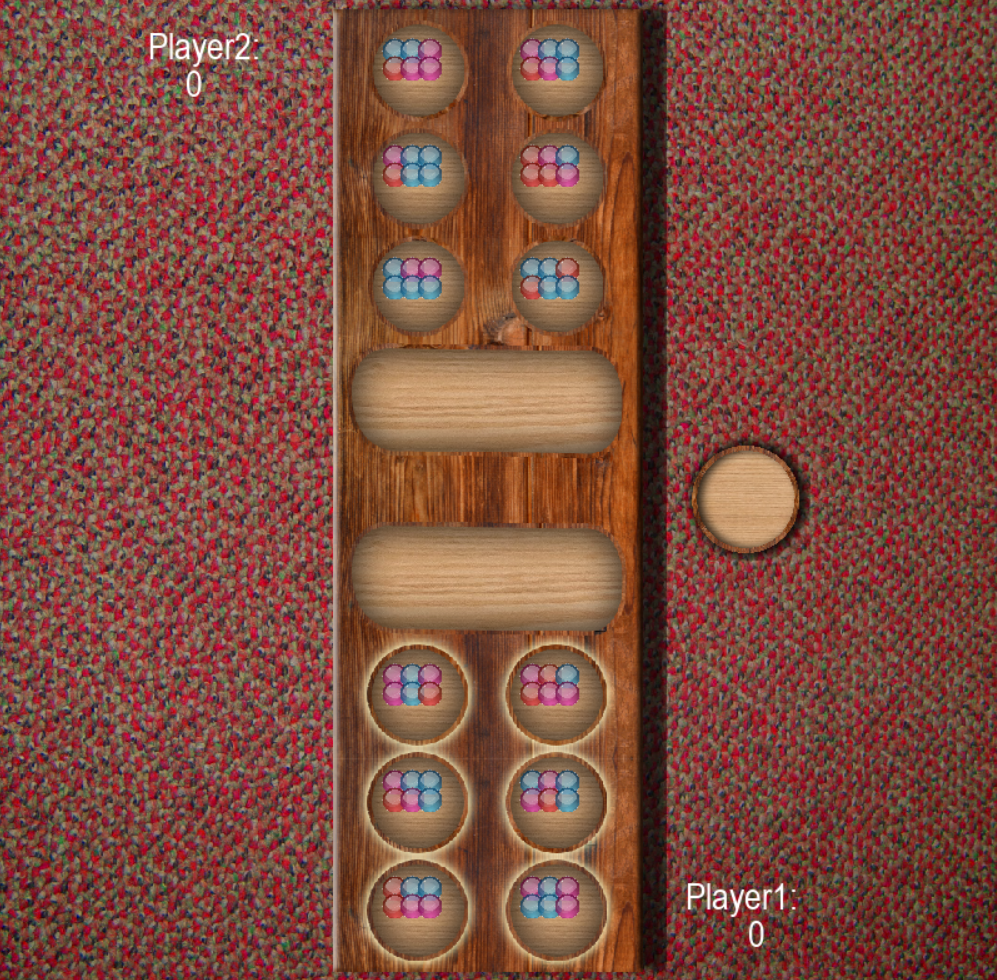
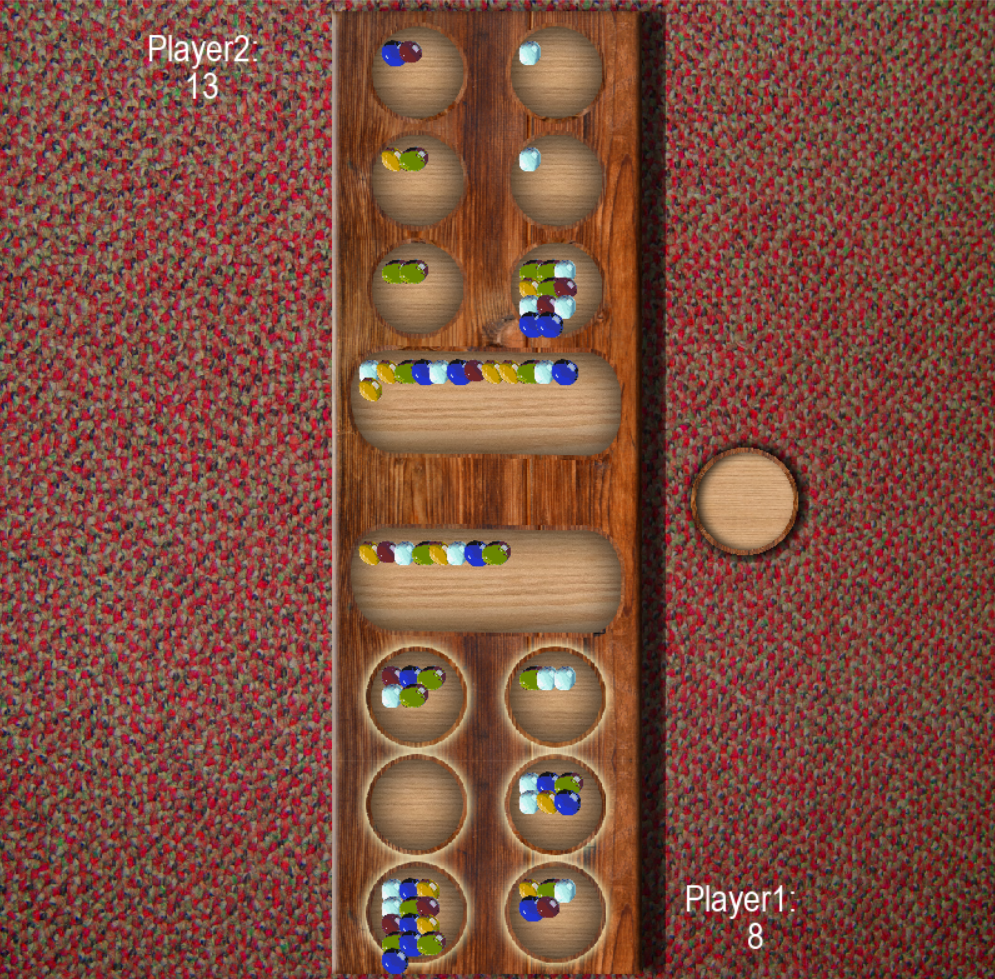
Added project images - pvp

diff --git a/README.md b/README.md
@@ -94,7 +94,10 @@ This project is licensed under the MIT License - see the [LICENSE](LICENSE) file
 ![https://github.com/Nixbu/Mancala/blob/master/Images/main_screen.PNG?raw=true](/images/main_screen.png)
 
 ### AI vs Player Game
-![https://github.com/Nixbu/Mancala/blob/master/Images/main_screen.PNG?raw=true](/images/main_screen.png)
+![https://github.com/Nixbu/Mancala/blob/master/Images/aivsp2.PNG?raw=true](/images/aivsp2.png)
+
+### AI vs Player Game
+![https://github.com/Nixbu/Mancala/blob/master/Images/pvp.PNG?raw=true](/images/pvp.png)
 
 ### AI vs AI Game
 ![https://github.com/Nixbu/Mancala/blob/master/Images/aivsai.PNG?raw=true](/images/aivsai.png)
